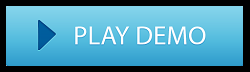
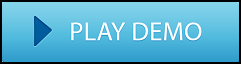
update

diff --git a/index.html b/index.html
@@ -46,33 +46,14 @@
           </a>
         </div>
 
-<!--         <a href="https://medium.com/@mariobrosnft/how-i-recreated-1985s-super-mario-bros-as-an-nft-collection-d56cd99f13db">
-          <button class="test1">Play Demo!</button>
-        </a> -->
-
-     
-        <a href="https://mariobro.eth.limo/">
-          <button>
-            <img src="images/demo.png"/>
-          </button>
-        </a>
-       
+      <a href="https://mariobro.eth.limo/" >
+        <button>
+          <img src="images/demo.png" width=200/>
+        </button>
+      </a>
+    
 
         <div class="menu">
-          <!-- <a
-            href="https://discord.gg/TZR4rDgY7p"
-            target="_blank"
-            rel="noopener noreferrer"
-          >
-            <img src="images/header/discord.webp" alt="Discord" />
-          </a> -->
- <!--          <a
-            href=""
-            target="_blank"
-            rel="noopener noreferrer"
-          >
-            <img src="images/header/twitter.webp" alt="Twitter" />
-          </a> -->
           <a
           href="https://medium.com/@mariobrosnft/how-i-recreated-1985s-super-mario-bros-as-an-nft-collection-d56cd99f13db"
           target="_blank"
@@ -157,7 +138,7 @@
           </li>
         </ul>
 
-        <div class="priceContainer">
+        <div>
           <!-- <h3>Total</h3> -->
           <button id="totalPrice" class="priceContainer" font-size="30px">.00 ETH</button>
         </div>

diff --git a/css/style.css b/css/style.css
@@ -223,7 +223,6 @@ p {
   }
 }
  
-
 .priceContainer{
   background-color: #6a98ec; /* Green */
   color: rgb(3, 2, 2);
